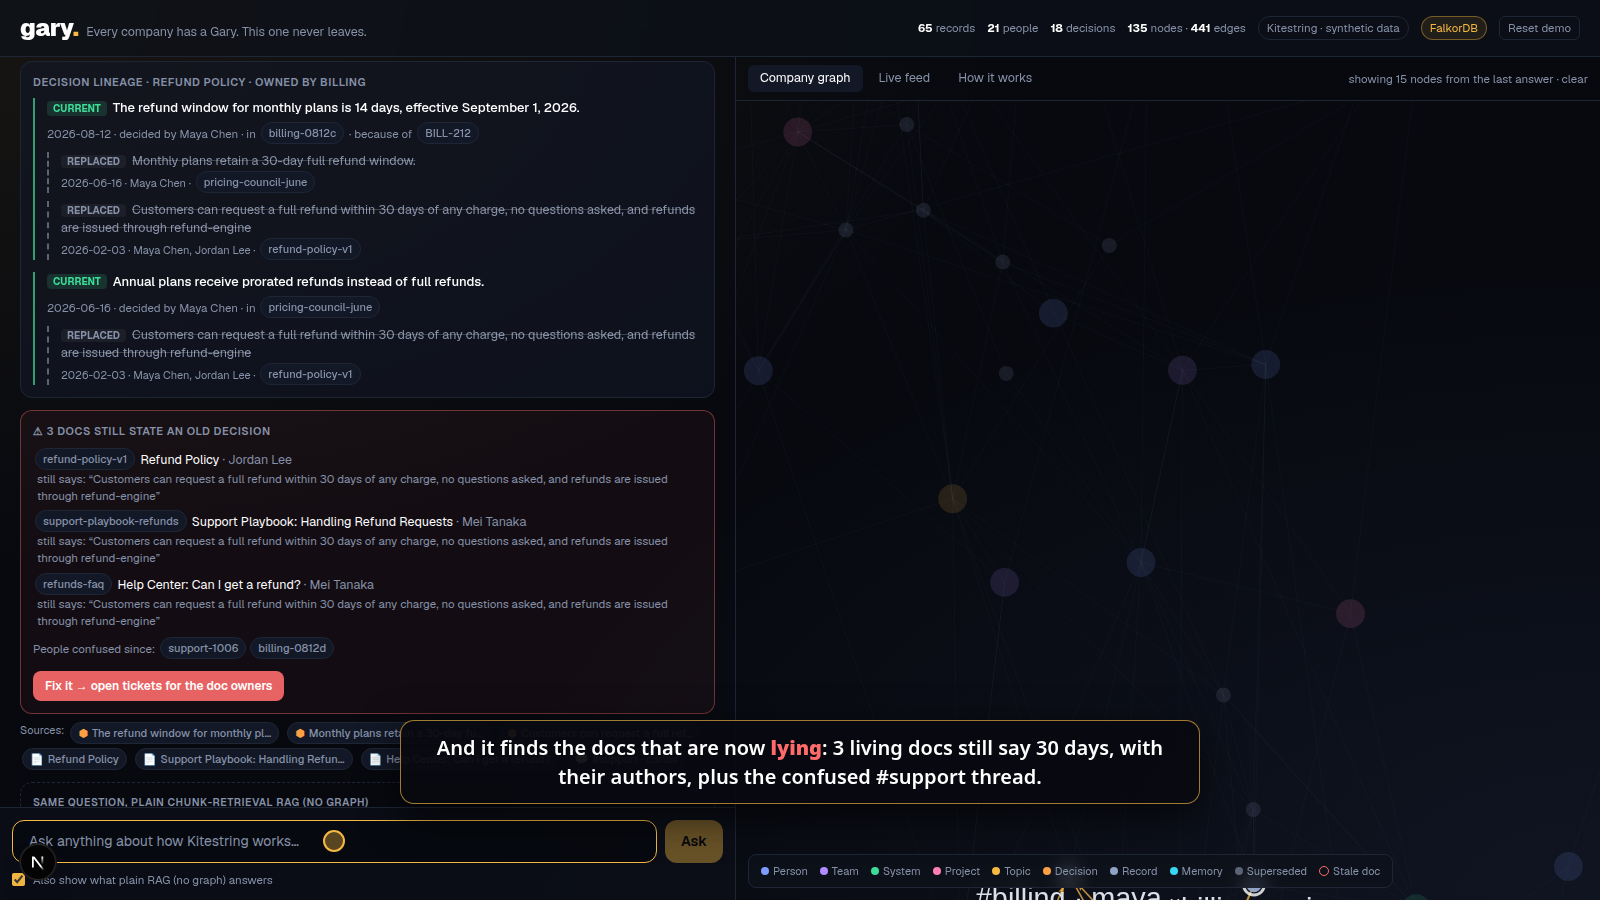
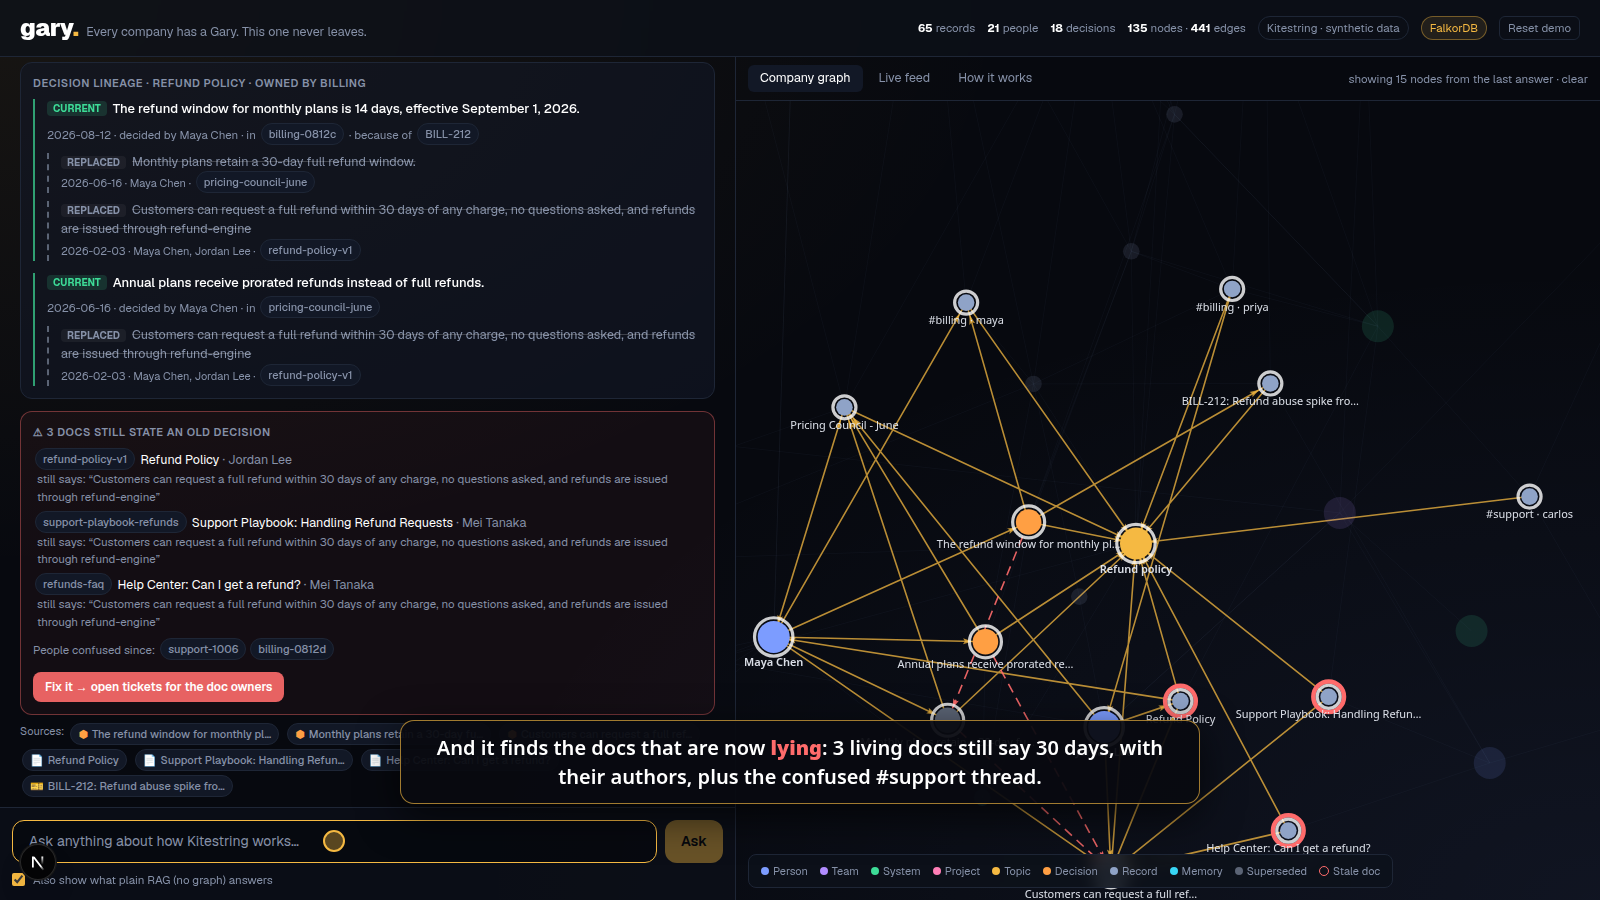
Catch-up tool (what did I miss) in agent, MCP and UI cards; README screenshots

diff --git a/lib/catchup.ts b/lib/catchup.ts
@@ -1,0 +1,88 @@
+import type { Tracer } from "./db";
+import type { Resolved, ToolResult } from "./tools";
+
+const DAY = 86_400_000;
+const day = (ms?: number | null) => (ms ? new Date(ms).toISOString().slice(0, 10) : null);
+
+// "I was away, what did I miss?": decisions made or reversed since a date, optionally scoped to one person's world
+// (systems/topics their team owns, projects they lead, and anything they've worked on or been mentioned in).
+export async function catchUp(tx: Tracer, args: { since?: string; days?: number; person?: string }, resolveFn: (tx: Tracer, t: string) => Promise<{ hit: Resolved | null }>): Promise<ToolResult> {
+  const sinceMs = args.since && !Number.isNaN(Date.parse(args.since)) ? Date.parse(args.since) : Date.now() - (args.days && args.days > 0 ? Math.min(args.days, 365) : 30) * DAY;
+  let person: Resolved | null = null;
+  if (args.person) {
+    person = (await resolveFn(tx, args.person)).hit;
+    if (!person || person.label !== "Person")
+      return { outcome: "unknown_subject", data: { person: args.person, note: "No such person in the company graph." }, nodes: [], cites: [] };
+  }
+
+  const scope = person
+    ? await tx.ro<{ key: string }>(
+        "catch_up.scope",
+        `MATCH (p:Person {key:$p})
+         OPTIONAL MATCH (p)-[:MEMBER_OF]->(:Team)-[:OWNS]->(owned)
+         OPTIONAL MATCH (p)-[:LEADS]->(led:Project)
+         OPTIONAL MATCH (p)-[:AUTHORED|REVIEWED|ASSIGNED|ATTENDED]->(:Source)-[:MENTIONS|CHANGES]->(touched)
+         OPTIONAL MATCH (:Source)-[:MENTIONS]->(p)
+         WITH collect(DISTINCT owned.key) + collect(DISTINCT led.key) + collect(DISTINCT touched.key) AS ks
+         UNWIND ks AS k WITH DISTINCT k WHERE k STARTS WITH 'system:' OR k STARTS WITH 'topic:' OR k STARTS WITH 'project:'
+         RETURN k AS key`,
+        { p: person.key },
+      )
+    : [];
+  const scopeKeys = scope.map((s) => s.key);
+
+  const decisions = await tx.ro<{ key: string; statement: string; at: number; status: string; makers: string[]; about: string[]; aboutKeys: string[]; replaced: string[]; src: string | null }>(
+    "catch_up.decisions",
+    `MATCH (d:Decision) WHERE d.at >= $since
+     OPTIONAL MATCH (d)-[:ABOUT]->(s)
+     WITH d, collect(DISTINCT s) AS subs
+     WHERE size($scope) = 0 OR any(x IN subs WHERE x.key IN $scope)
+     OPTIONAL MATCH (m:Person)-[:MADE]->(d)
+     OPTIONAL MATCH (d)-[:SUPERSEDES]->(o:Decision)
+     OPTIONAL MATCH (d)-[:DECIDED_IN]->(src:Source)
+     RETURN d.key AS key, d.statement AS statement, d.at AS at, d.status AS status,
+            collect(DISTINCT m.name) AS makers, [x IN subs | x.name] AS about, [x IN subs | x.key] AS aboutKeys,
+            collect(DISTINCT o.statement) AS replaced, src.key AS src
+     ORDER BY d.at DESC LIMIT 12`,
+    { since: sinceMs, scope: scopeKeys },
+  );
+
+  const tickets = await tx.ro<{ key: string; title: string; status: string; assignee: string | null }>(
+    "catch_up.open_tickets",
+    `MATCH (t:Ticket) WHERE t.at >= $since AND t.status <> 'Done'
+     OPTIONAL MATCH (a:Person)-[:ASSIGNED]->(t)
+     OPTIONAL MATCH (t)-[:MENTIONS]->(x)
+     WITH t, a, collect(x.key) AS mentioned
+     WHERE size($scope) = 0 OR a.key = $person OR any(k IN mentioned WHERE k IN $scope)
+     RETURN t.key AS key, t.title AS title, t.status AS status, a.name AS assignee ORDER BY t.at DESC LIMIT 6`,
+    { since: sinceMs, scope: scopeKeys, person: person?.key ?? "" },
+  );
+
+  const absences = await tx.ro<{ key: string; name: string; from: number; to: number | null }>(
+    "catch_up.absences",
+    `MATCH (p:Person) WHERE p.away_from IS NOT NULL AND p.away_from >= $since RETURN p.key AS key, p.name AS name, p.away_from AS from, p.away_to AS to`,
+    { since: sinceMs },
+  );
+
+  return {
+    outcome: decisions.length || tickets.length ? "ok" : "empty",
+    data: {
+      since: day(sinceMs),
+      for: person?.name ?? "everyone",
+      decisions: decisions.map((d) => ({
+        key: d.key,
+        date: day(d.at),
+        statement: d.statement,
+        status: d.status,
+        decided_by: d.makers,
+        about: d.about,
+        replaced: d.replaced,
+        decided_in: d.src,
+      })),
+      open_tickets: tickets,
+      people_going_away: absences.map((a) => ({ person: a.name, from: day(a.from), to: day(a.to) })),
+    },
+    nodes: [...(person ? [person.key] : []), ...decisions.flatMap((d) => [d.key, ...d.aboutKeys]), ...tickets.map((t) => t.key), ...absences.map((a) => a.key)],
+    cites: [...decisions.map((d) => d.key), ...decisions.map((d) => d.src).filter((s): s is string => !!s), ...tickets.map((t) => t.key)],
+  };
+}

diff --git a/lib/agent.ts b/lib/agent.ts
@@ -25,7 +25,7 @@ export interface Turn {
 }
 
 const SYSTEM = (today: string, memory: string) => `You are Gary, the company brain of Kitestring (a 21-person B2B billing SaaS). You answer questions about how the company works using ONLY your tools, which query a FalkorDB knowledge graph built from Slack, Jira, Notion, meeting notes and GitHub.
-Tool choice: decision_lineage for "what is our X / why / when / what was decided"; who_knows for "who knows / who owns / who should I ask"; profile for "what/who is X"; connect for "how is A related to B"; risk_radar for risks, bus factor, what could go wrong; real_teams for how people really collaborate; search only as a last resort.
+Tool choice: decision_lineage for "what is our X / why / when / what was decided"; who_knows for "who knows / who owns / who should I ask"; profile for "what/who is X"; connect for "how is A related to B"; risk_radar for risks, bus factor, what could go wrong; catch_up for "what did I miss / what changed since"; real_teams for how people really collaborate; search only as a last resort.
 Rules:
 - Call a tool before answering any factual question. You may call several.
 - Cite the exact "key" values from tool results ONLY in square brackets (never in parentheses or prose) right after each claim, e.g. [slack:billing-0812c] [decision:billing-0812c-1]. Never invent keys, people, dates or numbers.
@@ -153,6 +153,7 @@ function route(q: string): [string, Record<string, unknown>] {
   const s = q.toLowerCase();
   const subject = q.replace(/^(who|what|why|when|how|where)\b.*?\b(about|on|for|is|are|of)\s+/i, "").replace(/[?.!]+$/, "");
   if (/risk|bus factor|single point|what could go wrong/.test(s)) return ["risk_radar", {}];
+  if (/what did i miss|catch me up|what changed|while i was (away|out)/.test(s)) return ["catch_up", { days: 30 }];
   if (/actually work|real team|collaborat/.test(s)) return ["real_teams", {}];
   if (/who (knows|owns|should|can|to ask)|expert/.test(s)) return ["who_knows", { subject }];
   if (/why|decid|policy|when|what('s| is) our|window|date/.test(s)) return ["decision_lineage", { subject }];
@@ -186,6 +187,10 @@ function composeFromRows(results: { name: string; result: ToolResult }[]): strin
     } else if (name === "search" && d.results) {
       out.push(`Top records for "${d.query}":`);
       for (const r of d.results.slice(0, 4)) out.push(`- ${r.title} (${r.date}): ${r.excerpt} [${r.key}]`);
+    } else if (name === "catch_up" && d.decisions) {
+      out.push(`Since ${d.since} (${d.for}):`);
+      for (const x of d.decisions.slice(0, 6)) out.push(`- ${x.date}: ${x.statement}${x.replaced.length ? " (replaced an earlier decision)" : ""} [${x.key}]`);
+      for (const t of d.open_tickets.slice(0, 3)) out.push(`- Open: ${t.title}${t.assignee ? ` → ${t.assignee}` : ""} [${t.key}]`);
     } else if (name === "real_teams" && d.clusters) {
       for (const c of d.clusters) out.push(`- ${c.members.join(", ")}`);
     } else if (result.outcome === "empty") {

diff --git a/app/components/Cards.tsx b/app/components/Cards.tsx
@@ -146,6 +146,38 @@ export function ToolCards({ name, data, onCite, onAsk }: { name: string; data: a
       </Box>
     );
   }
+  if (name === "catch_up" && data.decisions) {
+    return (
+      <Box title={`What changed since ${data.since} · for ${data.for}`}>
+        <div className="space-y-2 text-[12.5px]">
+          {data.decisions.map((d: any) => (
+            <div key={d.key} className="border-l-2 border-accent/60 pl-2.5">
+              <div>
+                <span className="font-mono text-[11px] text-muted">{d.date}</span> <span className="text-white">{d.statement}</span>
+                {d.status === "superseded" && <span className="ml-1.5 rounded bg-white/5 px-1.5 text-[10px] font-bold text-muted">SINCE REPLACED</span>}
+              </div>
+              <div className="text-[11px] text-muted">
+                {d.decided_by?.length ? `${d.decided_by.join(", ")} · ` : ""}
+                {d.about?.join(", ")}
+                {d.replaced?.length ? <span className="text-accent"> · replaced: {d.replaced[0]}</span> : null} <Key k={d.decided_in} onCite={onCite} />
+              </div>
+            </div>
+          ))}
+          {data.open_tickets?.length > 0 && (
+            <div className="pt-1 text-[11.5px] text-muted">
+              Open tickets:{" "}
+              {data.open_tickets.map((t: any) => (
+                <Key key={t.key} k={t.key} onCite={onCite} />
+              ))}
+            </div>
+          )}
+          {data.people_going_away?.length > 0 && (
+            <div className="text-[11.5px] text-muted">Going away: {data.people_going_away.map((a: any) => `${a.person} from ${a.from}`).join(" · ")}</div>
+          )}
+        </div>
+      </Box>
+    );
+  }
   if (name === "connect" && data.path) {
     return (
       <Box title={`Path · ${data.hops} hops`}>

diff --git a/lib/tools.ts b/lib/tools.ts
@@ -1,4 +1,5 @@
 import type { ChatCompletionTool } from "openai/resources/chat/completions";
+import { catchUp } from "./catchup";
 import type { Tracer } from "./db";
 
 // Gary's tool catalogue: fixed, parameterised Cypher. The model chooses a tool and its arguments;
@@ -496,6 +497,21 @@ export const TOOLS: ChatCompletionTool[] = [
   {
     type: "function",
     function: {
+      name: "catch_up",
+      description: "What changed recently: decisions made or reversed since a date, open tickets, people going away. Optionally scoped to one person's world. Use for 'what did I miss', 'what changed since', 'catch me up'.",
+      parameters: {
+        type: "object",
+        properties: {
+          since: { type: "string", description: "ISO date YYYY-MM-DD (optional)" },
+          days: { type: "number", description: "Look back this many days if no date (default 30)" },
+          person: { type: "string", description: "Optional person whose world to focus on" },
+        },
+      },
+    },
+  },
+  {
+    type: "function",
+    function: {
       name: "search",
       description: "Full-text search over all records (Slack, Jira, Notion, meetings, GitHub). Use only when no subject-specific tool fits.",
       parameters: { type: "object", properties: { query: { type: "string" } }, required: ["query"] },
@@ -545,6 +561,8 @@ export async function runTool(tx: Tracer, name: string, args: Record<string, unk
       return realTeams(tx);
     case "search":
       return search(tx, args as { query: string });
+    case "catch_up":
+      return catchUp(tx, args as { since?: string; days?: number; person?: string }, resolve);
     case "open_ticket":
       return openTicket(tx, args as Parameters<typeof openTicket>[1]);
     case "remember":

diff --git a/app/page.tsx b/app/page.tsx
@@ -35,6 +35,8 @@ const SUGGESTIONS: { area: string; q: string }[] = [
   { area: "Risk", q: "What are our biggest knowledge risks right now?" },
   { area: "Multi-hop", q: "How is Kai Johnson connected to the refund policy?" },
   { area: "Org reality", q: "How do people actually work together here?" },
+  { area: "Catch up", q: "I'm Priya, back from 3 weeks off. What did I miss?" },
+  { area: "Decision lineage", q: "Who decided our API rate limits, and why?" },
   { area: "Honesty", q: "Who owns the mobile app?" },
 ];
 

diff --git a/mcp/server.ts b/mcp/server.ts
@@ -17,6 +17,7 @@ const SHAPES: Record<string, z.ZodRawShape> = {
   risk_radar: {},
   real_teams: {},
   search: { query: z.string() },
+  catch_up: { since: z.string().optional(), days: z.number().optional(), person: z.string().optional() },
   open_ticket: {
     title: z.string(),
     details: z.string(),

diff --git a/next.config.ts b/next.config.ts
@@ -1,6 +1,7 @@
 import type { NextConfig } from "next";
 
 const nextConfig: NextConfig = {
+  devIndicators: false,
   serverExternalPackages: ["falkordb"],
   // the seed/reset route reads the raw connector exports at runtime
   outputFileTracingIncludes: { "/api/reset": ["./data/**/*"] },
